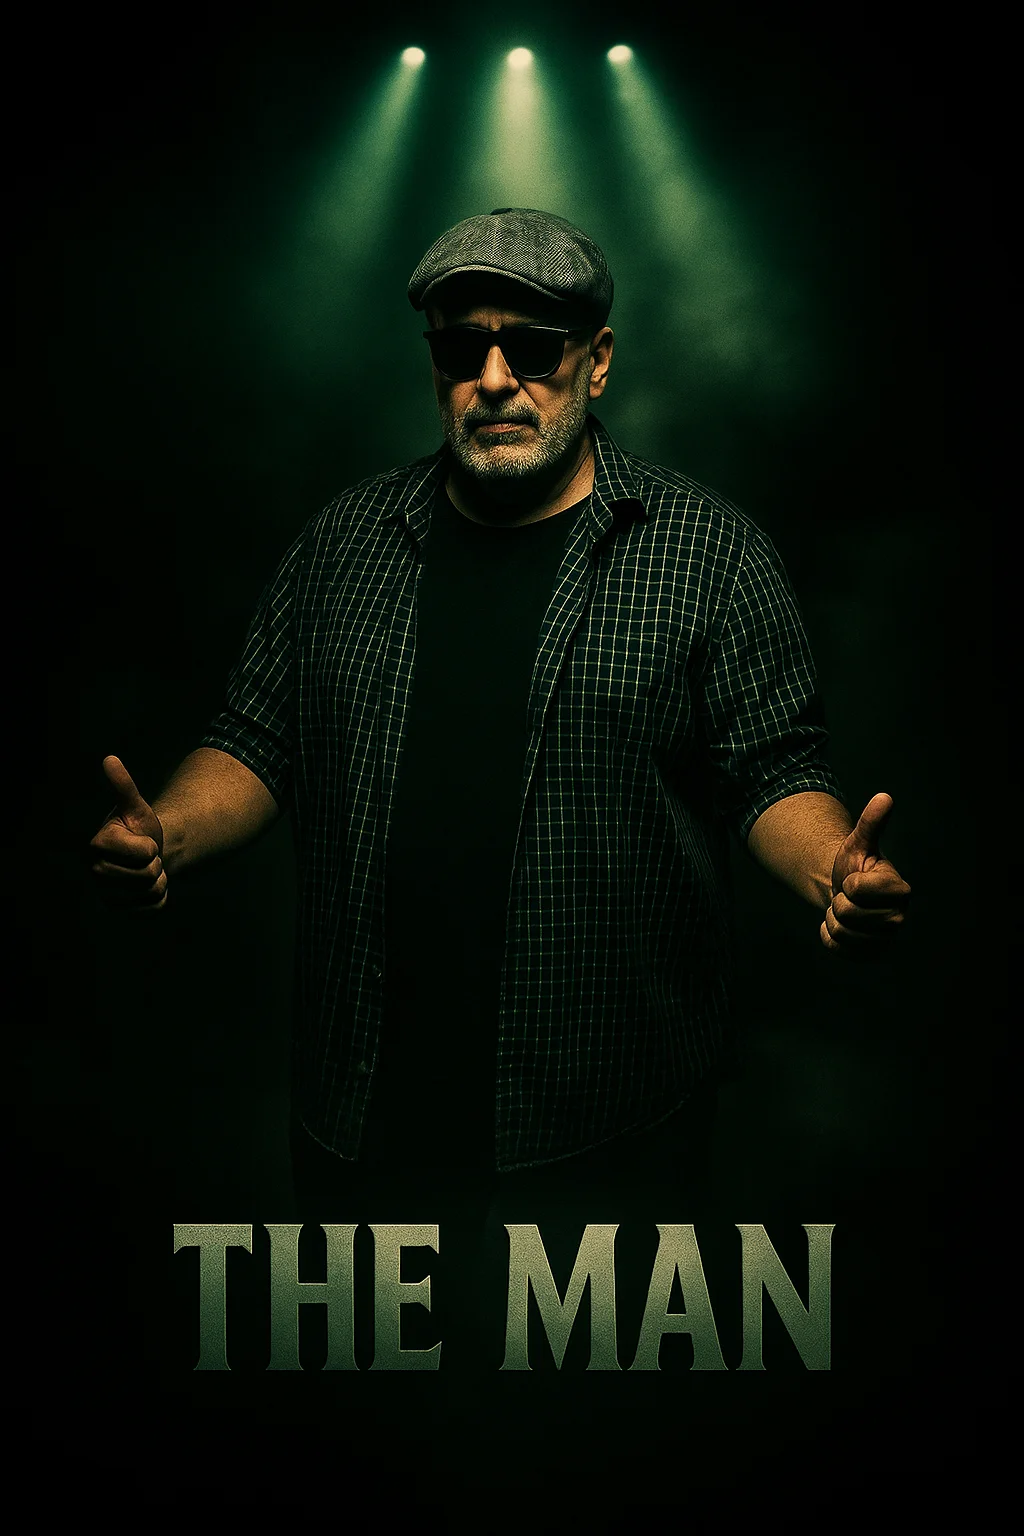
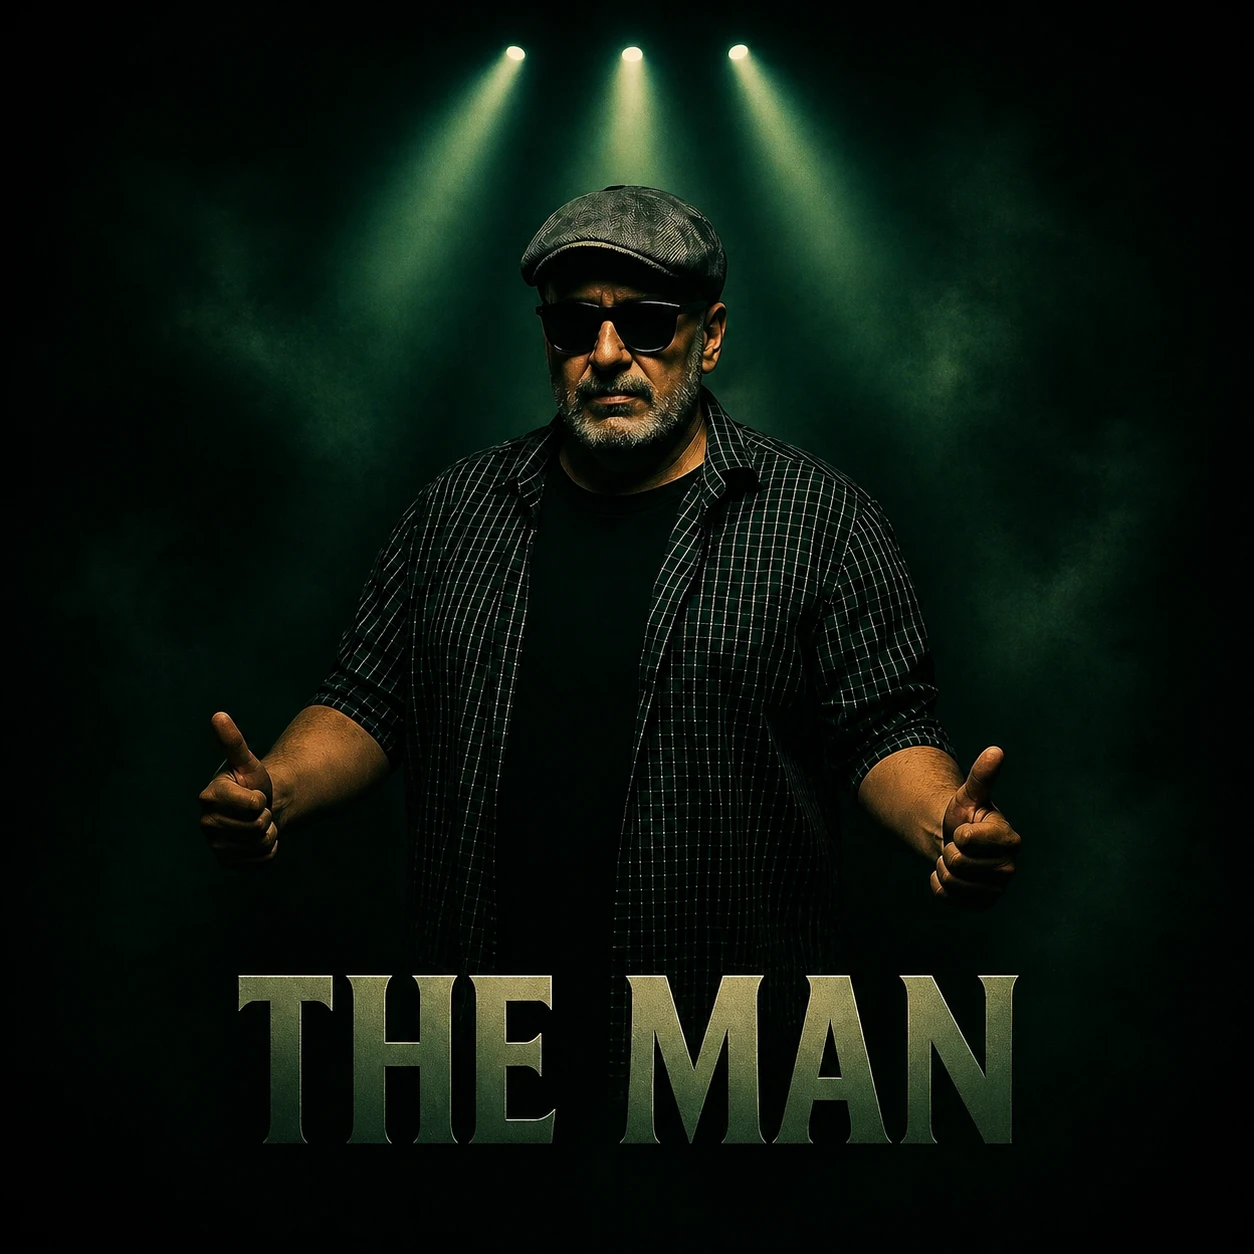
feat: v1.17.2 - nuovo ritratto Hero + fix completo immagini uploads

diff --git a/src/components/Hero.tsx b/src/components/Hero.tsx
@@ -174,11 +174,11 @@ const Hero: React.FC<HeroProps> = ({ onOpenModal }) => {
           transition={{ repeat: Infinity, duration: 6, ease: 'easeInOut' }}
           src="/Simone-Pizzi.webp"
           alt="Simone Pizzi"
-          className="w-full h-full object-contain object-bottom"
+          className="w-full h-full object-contain object-center"
           style={{
-            filter: 'brightness(0.9) saturate(0.9)',
-            maskImage: 'radial-gradient(ellipse 80% 90% at 50% 50%, rgba(0,0,0,0.95) 40%, rgba(0,0,0,0) 100%)',
-            WebkitMaskImage: 'radial-gradient(ellipse 80% 90% at 50% 50%, rgba(0,0,0,0.95) 40%, rgba(0,0,0,0) 100%)',
+            filter: 'brightness(0.95) saturate(0.9)',
+            maskImage: 'radial-gradient(ellipse 72% 78% at 56% 50%, rgba(0,0,0,1) 35%, rgba(0,0,0,0) 100%)',
+            WebkitMaskImage: 'radial-gradient(ellipse 72% 78% at 56% 50%, rgba(0,0,0,1) 35%, rgba(0,0,0,0) 100%)',
           }}
         />
       </motion.div>

diff --git a/docs/changelogs/v1.17.2.md b/docs/changelogs/v1.17.2.md
@@ -1,0 +1,50 @@
+# Changelog v1.17.2 (27 Aprile 2026)
+
+## Fix immagini uploads + nuovo ritratto Hero
+
+### Migrazione path immagini DB
+
+Dopo il deploy di v1.17.0 (V3 "Terminal Botanico") è emerso che le immagini
+di cover e corpo articolo erano invisibili. Causa: la cartella upload era stata
+riorganizzata aggiungendo la sottodirectory `immagini/`, ma i record nel DB
+conservavano i vecchi path senza di essa.
+
+Eseguita migrazione in due fasi tramite script PHP temporanei:
+
+**Fase 1 — cover_image** (`fix_uploads_subfolder.php`)
+- Tabella `articles.cover_image`: 25 record aggiornati
+- Tabella `projects.cover_image`: 10 record aggiornati
+- Conversione: `/uploads/file.webp` → `/uploads/immagini/file.webp`
+- Gestiti anche path assoluti con dominio (`https://simonepizzi.runtimeradio.it/uploads/...`)
+- Record già corretti (art.39) e path statici `/images/` non toccati
+- 0 file mancanti su disco
+
+**Fase 2 — body content** (`fix_content_image_paths.php`)
+- Tabella `articles.content`: 9 articoli aggiornati, 26 occorrenze totali
+- Regex con lookahead negativo per non toccare path già corretti
+- Filtro su estensioni immagine (webp, jpg, jpeg, png, gif, avif, svg)
+- PDF e altri documenti esclusi dalla sostituzione
+- PDF nei link articolo rimangono invariati (serviti via `download.php?id=`)
+
+Entrambi gli script eseguiti con dry-run preventivo (0 errori), poi applicati,
+poi cancellati dal server.
+
+---
+
+### Nuovo ritratto Hero
+
+- **File:** `public/Simone-Pizzi.webp` (sostituzione in-place)
+- **Sorgente:** `SimonePizzi.png` (1254×1254px) convertito in WebP 90% via Sharp → 140KB
+- **Formato:** quadrato, lighting verde atmosferico — coerente con la palette V3
+- **CSS aggiornato in `Hero.tsx`:**
+  - `object-bottom` → `object-center` (immagine quadrata, soggetto centrato)
+  - Mask ellittica ricalibrata: `radial-gradient(ellipse 72% 78% at 56% 50%, ...)` —
+    sfumatura spostata leggermente a destra per lasciare spazio alla fade sinistra
+  - `brightness` portato a 0.95 (meno scuro, il lighting dell'immagine è già cupo)
+
+---
+
+### Note deploy
+
+Caricare la **`dist/` completa** sul server (include il nuovo `Simone-Pizzi.webp`).
+Nessuna modifica al backend PHP. Nessuna migrazione DB aggiuntiva.